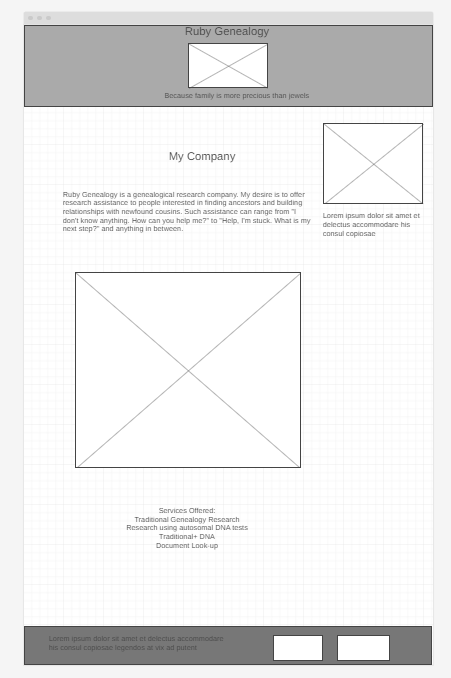
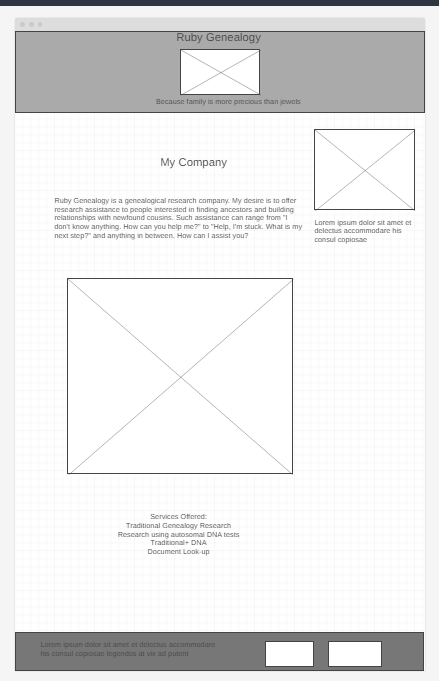
updated content

diff --git a/ruby_genealogy/site-plan.html b/ruby_genealogy/site-plan.html
@@ -125,11 +125,11 @@
       <h3 id="home_tag">Home page</h3>
       <p>
         <h4>Ruby Genealogy-Because family is more precious than jewels</h4><br><br>
-        <b>My Company</b><br><br>
-        <p>
-          Ruby Genealogy is a genealogical research company. My desire is to offer research assistance to people interested in finding ancestors and building relationships with newfound cousins. Such assistance can range from “I don’t know anything. How can you help me?” to “Help, I’m stuck. What is my next step?” and anything in between.<br><br> 
-        </p>
-        <p>Services Offered:</p><br><br>
+        <b>My Company</b><br>
+      
+          Ruby Genealogy is a genealogical research company. My desire is to offer research assistance to people interested in finding ancestors and building relationships with newfound cousins. Such assistance can range from “I don’t know anything. How can you help me?” to “Help, I’m stuck. What is my next step?” and anything in between. How can I assist you?<br><br> 
+      </p>
+        <p>Services Offered:</p><br>
         Traditional Genealogy Research<br>
         Research using autosomal DNA tests<br>
         Traditional + DNA<br>
@@ -147,6 +147,12 @@
       <p>Images for the page 2</p>
         <img src="./images/Bertha_in_ruby_gen.jpg" alt="Bertha Delilia Emfinger Baker">
         <img src="./images/Ruby_Langston.png" alt="Ruby Bell Langston Brackner">
+        <p>Bertha Delilia Emfinger Baker</p>
+        <p>Ruby Bell Langston Brackner</p>
+        <p>So, who do I favor?<br>
+           psst... it could have been worse. I could have been named Bertha Bell!<br>
+           (My apologies to anyone who has that name. It's a perfectly lovely name, it's just not for me.)
+        </p>
       <h3>Fees</h3>
       <p>
         <b>Document Look-up Service</b><br><br>
@@ -174,13 +180,15 @@
         <b>Report with Research Log and Copies of Documents</b><br><br>
         Included: Consult to discuss your genealogy goal, analyze any records for reliability, research documents that will most likely help you reach your goal, write a report with the findings.<br>
         $400 for a 10-hour project<br>
-        $800 for a 20-hour project
-
+        $800 for a 20-hour project<br>
+        All plans and projects require a deposit of 50%. Consults are free and do not take paid research time.
       </p>
       <p>Images for the Page 3</p>
         <img src="./images/Robert_Elliott_will.jpg" alt="Robert_Elliott_will">
+        <p>Examples of documents found on the internet...</p>
         <img src="./images/1840_census_Ira_Elliott.jpg" alt="Ira_Elliott_census">
-
+        <p>1835 Will page of Robert Elliott</p>
+        <p>1830 Twiggs County, Georgia census</p>
       <hr>
       <h2>Wireframes</h2>
       <p>
